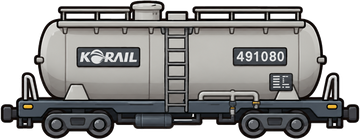
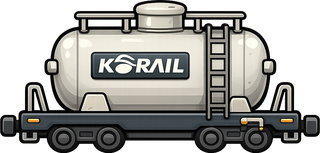
Use the shorter tank wagon art and stop parked wagons rendering upside down
- 새 그림(양회화차 짧은버전)으로 교체. 배경이 단색이 아니라 회색 그라데이션
  + 드롭섀도라 기존 방식으로는 못 지워서, "이웃 픽셀과 색 차이가 작으면
  같은 배경"으로 보고 가장자리에서 번져나가는 방식으로 잘라냈다.
  비율이 2.59:1 -> 2.09:1로 짧아져 화차가 훨씬 잘 보인다.
  비율 상수를 CAR_IMG_RATIO로 빼서 앞으로 그림만 바꿔도 되게 했다.
- 양회기지 화차가 거꾸로 보이던 문제: 화차 그룹에 선로 각도를 그대로
  넣고 있었는데, 오른쪽->왼쪽으로 그려진 선로는 각도가 180도라 그림이
  뒤집혔다(예전 네모 도형은 상하대칭이라 티가 안 났다). 기관차가 쓰던
  normalizeEngineTilt로 각도를 (-90,90]으로 접는다.
  확인 결과 유치 중이던 화차 14량이 전부 180도였고, 지금은 0량이다.

diff --git a/index.html b/index.html
@@ -4055,14 +4055,16 @@ const actionToastEl = document.getElementById('actionToast');
 
 const CAR_SPACING = 24, CAR_LEN = 20, CAR_W = 13;
 // 모바일 화차 그림 상자. 폭은 CAR_SPACING에 맞춰 서로 거의 맞닿게, 높이는 여유 있게 잡고
-// preserveAspectRatio="meet"이 실제 크기(26 x 10.04)를 정한다.
-const CAR_IMG_W = 24, CAR_IMG_H = 12;
+// preserveAspectRatio="meet"이 실제 크기(CAR_IMG_W x CAR_IMG_W/CAR_IMG_RATIO)를 정한다.
+const CAR_IMG_W = 24, CAR_IMG_H = 14;
+const CAR_IMG_RATIO = 2.09;                 // wagon.png 가로/세로
+const CAR_IMG_DRAWN_H = CAR_IMG_W / CAR_IMG_RATIO;
 // 모바일 화차 그림은 낮고 길어서 번호를 한가운데 얹으면 화차가 안 보인다 — 그림 위로 올린다.
 // (데스크톱은 예전처럼 네모 안 가운데)
 // 번호는 화차 간격(24)보다 길어서 옆 화차 번호와 붙는다 — 홀짝으로 두 줄에 나눠 얹는다.
 function carLabelY(idx){
   if(!document.body.classList.contains('mobile-landscape')) return 3;
-  const top = -(CAR_IMG_W/2.59)/2 - 1.5;
+  const top = -CAR_IMG_DRAWN_H/2 - 1.5;
   return (idx % 2 === 0) ? top : top - 5.5;
 }
 const ENGINE_CAR_GAP = 38; // 기관차와 첫 화차 사이 간격(겹침 방지: 기관차 반폭22.7 + 연결기2 + 화차 반폭10 + 여유3)
@@ -4488,10 +4490,10 @@ function getOrCreateCarEl(car){
     g.appendChild(line);
   });
   // 모바일 전용 양회화차 그림 (기관차와 같은 방식: 데스크톱은 도형 유지)
-  // 그림 비율이 2.59:1. meet으로 넣으면 CAR_IMG_W x (CAR_IMG_W/2.59)로 세로 가운데에 놓인다.
+  // meet으로 넣으면 CAR_IMG_W x CAR_IMG_DRAWN_H 크기로 세로 가운데에 놓인다.
   const img = document.createElementNS(svgNS,'image');
   img.setAttribute('class','car-img');
-  img.setAttribute('href','assets/wagon.png?v=11');
+  img.setAttribute('href','assets/wagon.png?v=12');
   img.setAttribute('x', -CAR_IMG_W/2); img.setAttribute('y', -CAR_IMG_H/2);
   img.setAttribute('width', CAR_IMG_W); img.setAttribute('height', CAR_IMG_H);
   img.setAttribute('preserveAspectRatio','xMidYMid meet');
@@ -4499,8 +4501,8 @@ function getOrCreateCarEl(car){
   // 연결·선택·불량 상태는 그림 위에 반투명 색을 덮어 표시한다
   const tint = document.createElementNS(svgNS,'rect');
   tint.setAttribute('class','car-tint');
-  tint.setAttribute('x', -CAR_IMG_W/2); tint.setAttribute('y', -CAR_IMG_W/2.59/2);
-  tint.setAttribute('width', CAR_IMG_W); tint.setAttribute('height', CAR_IMG_W/2.59);
+  tint.setAttribute('x', -CAR_IMG_W/2); tint.setAttribute('y', -CAR_IMG_DRAWN_H/2);
+  tint.setAttribute('width', CAR_IMG_W); tint.setAttribute('height', CAR_IMG_DRAWN_H);
   tint.setAttribute('rx', 2);
   g.appendChild(tint);
   const label = document.createElementNS(svgNS,'text');
@@ -4549,8 +4551,11 @@ function renderCars(){
       visibleIds.add(car.id);
       const entry = getOrCreateCarEl(car);
       entry.g.style.display = '';
-      entry.g.setAttribute('transform', `translate(${car._pos.x},${car._pos.y}) rotate(${car._pos.angle*180/Math.PI})`);
-      entry.label.setAttribute('transform', `rotate(${-car._pos.angle*180/Math.PI})`);
+      // 그림 화차는 위아래가 있으므로 기관차와 같은 방식으로 각도를 (-90,90]로 접는다.
+      // 안 그러면 오른쪽->왼쪽으로 향하는 선로(양회기지 쪽)에서 화차가 뒤집혀 보인다.
+      const carDeg = normalizeEngineTilt(car._pos.angle);
+      entry.g.setAttribute('transform', `translate(${car._pos.x},${car._pos.y}) rotate(${carDeg})`);
+      entry.label.setAttribute('transform', `rotate(${-carDeg})`);
       entry.label.setAttribute('y', carLabelY(idx));
       entry.label.textContent = car.number;
       entry.label.setAttribute('fill', '#1a1f29');
@@ -4572,8 +4577,9 @@ function renderCars(){
     car._pos = p;
     visibleIds.add(car.id);
     const entry = getOrCreateCarEl(car);
-    entry.g.setAttribute('transform', `translate(${p.x},${p.y}) rotate(${p.angle*180/Math.PI})`);
-    entry.label.setAttribute('transform', `rotate(${-p.angle*180/Math.PI})`);
+    const aDeg = normalizeEngineTilt(p.angle);
+    entry.g.setAttribute('transform', `translate(${p.x},${p.y}) rotate(${aDeg})`);
+    entry.label.setAttribute('transform', `rotate(${-aDeg})`);
     entry.label.setAttribute('y', carLabelY(i));
     entry.label.textContent = car.number;
     entry.label.setAttribute('fill', '#fff');

diff --git a/sw.js b/sw.js
@@ -13,7 +13,7 @@
 //
 // 주의: 자산을 추가했다면 아래 CACHE 이름의 숫자를 올려야 이전 캐시가 정리된다.
 
-const CACHE = 'obong-game-v11';
+const CACHE = 'obong-game-v12';
 
 const PRECACHE = [
   './',
